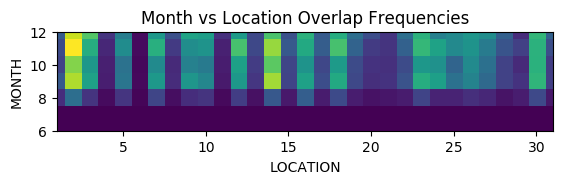
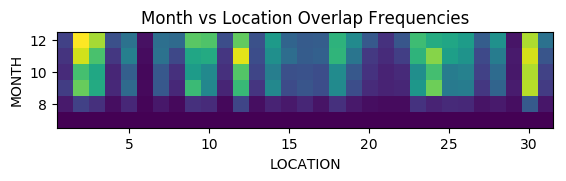
update threshold for overlap and new plot

diff --git a/collaboration_data_processor.py b/collaboration_data_processor.py
@@ -56,7 +56,7 @@ def main2():
                 print(eachLocation)
                 List.append(eachLocation)
                 f.close()
-    print(LocationList)
+    # print(LocationList)
     print(List)
     # heatmap1(LocationList, List)
     return List, LocationList
@@ -73,8 +73,8 @@ def heatmap1(locationlist, intensity):
 
     fig, ax = plt.subplots()
     axes = plt.gca()
-    axes.set_ylim([6,12])
-    axes.set_xlim([1,31])
+    axes.set_ylim([6.5,12.5])
+    axes.set_xlim([0.5,31.5])
     plt.title('Month vs Location Overlap Frequencies')
     plt.ylabel('MONTH')
     plt.xlabel('LOCATION')
@@ -107,7 +107,7 @@ def findCollaboration(rows, UserD):
             iRow = rows[i]
             jRow = rows[j]
             overlap = calculateOverlap(int(iRow[6]), int(iRow[7]), int(iRow[8]), int(jRow[6]), int(jRow[7]), int(jRow[8]), int(iRow[11]), int(iRow[13]), int(iRow[14]), int(jRow[11]), int(jRow[13]), int(jRow[14]))
-            if overlap > 0:
+            if overlap > 30:
                 # Add session to each user
                 if iRow[1] in UserD:
                     iDict = UserD[iRow[1]]
@@ -159,7 +159,8 @@ locationlist = ['statsdata CUC-HON-2-S-RTLS .csv', 'statsdata CUC-HON-2-E-BRIDGE
 'statsdata CUC-MUDD-3-IRIS-N .csv', 'statsdata CUC-HON-1-NE-CAFE .csv', \
 'statsdata CUC-HON-4-SOUTH .csv']
 
-intensity = [[0, 0, 319, 689, 493, 567, 719], [0, 0, 889, 2167, 2006, 2462, 2261], [0, 0, 374, 1406, 1306, 1530, 1808], [0, 0, 74, 207, 213, 277, 368], [0, 0, 377, 955, 924, 1202, 1045], [0, 0, 38, 63, 57, 70, 78], [0, 0, 517, 1312, 1178, 1553, 1309], [0, 0, 90, 314, 289, 422, 601], [0, 0, 320, 1295, 1080, 1203, 1428], [0, 0, 368, 1131, 1014, 1269, 1376], [0, 0, 59, 174, 199, 229, 337], [0, 0, 451, 1314, 1399, 1745, 1339], [0, 1, 111, 392, 433, 530, 537], [0, 1, 674, 2120, 1843, 2086, 1767], [0, 0, 165, 498, 511, 684, 606], [0, 0, 738, 1405, 1265, 1500, 1584], [0, 1, 185, 582, 526, 723, 704], [0, 1, 554, 1494, 1339, 1745, 1533], [0, 0, 199, 533, 560, 780, 893], [0, 0, 119, 328, 357, 430, 579], [0, 0, 152, 356, 337, 366, 380], [0, 0, 188, 626, 564, 764, 895], [0, 0, 504, 1535, 1299, 1643, 1579], [0, 0, 247, 1387, 1245, 1418, 1073], [0, 0, 247, 918, 795, 1161, 1161], [0, 0, 335, 1105, 1181, 1260, 1290], [0, 0, 275, 838, 907, 1021, 1205], [0, 0, 130, 490, 485, 639, 756], [0, 3, 201, 363, 295, 466, 311], [0, 0, 546, 1615, 1572, 1581, 1633], [0, 0, 160, 459, 443, 592, 766]]
+
+intensity = [[0, 0, 77, 194, 131, 161, 207], [0, 0, 206, 825, 760, 1000, 1075], [0, 0, 148, 659, 641, 765, 930], [0, 0, 41, 125, 116, 176, 261], [0, 0, 118, 371, 324, 462, 407], [0, 0, 14, 29, 24, 34, 47], [0, 0, 69, 297, 295, 407, 394], [0, 0, 28, 122, 150, 234, 370], [0, 0, 151, 733, 591, 637, 800], [0, 0, 134, 498, 511, 657, 780], [0, 0, 24, 110, 147, 171, 256], [0, 0, 225, 724, 789, 1032, 816], [0, 1, 40, 166, 223, 252, 267], [0, 0, 106, 503, 458, 535, 584], [0, 0, 73, 245, 262, 385, 346], [0, 0, 114, 285, 269, 314, 309], [0, 0, 58, 255, 254, 329, 315], [0, 1, 151, 516, 519, 705, 695], [0, 0, 75, 255, 294, 417, 514], [0, 0, 38, 132, 158, 180, 300], [0, 0, 30, 106, 107, 132, 152], [0, 0, 32, 116, 128, 200, 286], [0, 0, 156, 567, 531, 700, 741], [0, 0, 105, 839, 755, 881, 663], [0, 0, 127, 444, 452, 606, 636], [0, 0, 122, 453, 472, 554, 594], [0, 0, 58, 175, 208, 238, 317], [0, 0, 77, 348, 374, 453, 543], [0, 1, 39, 81, 71, 79, 62], [0, 0, 306, 960, 948, 1004, 943], [0, 0, 63, 185, 210, 282, 403]]
 
 UserD = heatmap1(locationlist, intensity)
 
